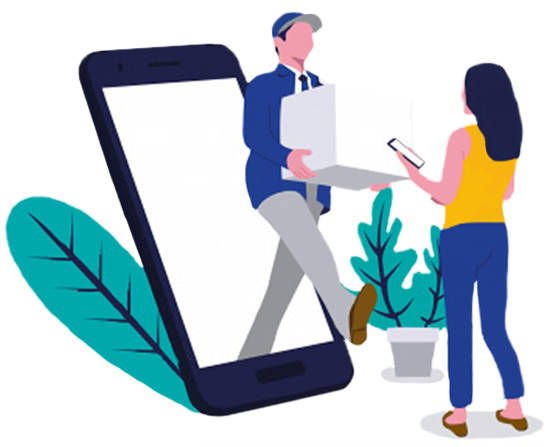
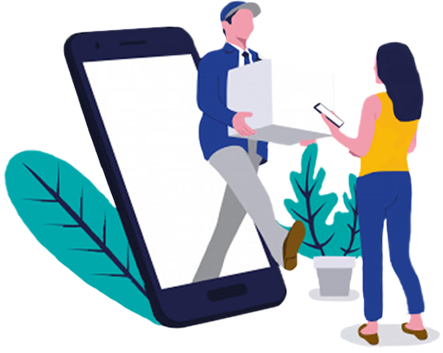
center

diff --git a/static/assets/css/sass/clients.css b/static/assets/css/sass/clients.css
@@ -5,6 +5,10 @@ body {
 header {
   color: #4a4a4a; }
 
+.center-img {
+  display:block !important;
+  margin:0 auto !important;
+}
 .logo-text {
   margin-top: 17px;
   font-family: "Avenir-Medium"; }
@@ -76,11 +80,13 @@ header {
 .delivery-bg {
   position: relative;
   width: 100%;
-  height: 420px; }
+  height: 420px;
+    }
   .delivery-bg img {
-    position: absolute;
-    top: 10px;
-    left: 180px; }
+    /* position: absolute; */
+    /* top: 10px; */
+    margin:20px auto;
+     }
   .delivery-bg:after {
     content: url(../../img/clients/cloud.png);
     position: absolute;
@@ -92,7 +98,7 @@ header {
   color: #4a4a4a;
   margin-bottom: 170px; }
   .main-title h1 {
-    padding-top: 30px;
+    margin-top: -30px;
     font-size: 32px;
     font-family: "Avenir-Medium"; }
   .main-title p {

diff --git a/static/assets/css/sass/clients-rtl.css b/static/assets/css/sass/clients-rtl.css
@@ -78,9 +78,9 @@ header {
   width: 100%;
   height: 420px; }
   .delivery-bg img {
-    position: absolute;
-    top: 10px;
-    left: 180px; }
+    /* position: absolute; */
+    /* top: 10px; */
+    margin:20px auto; }
   .delivery-bg:after {
     content: url(../../img/clients/cloud-rtl.png);
     position: absolute;

diff --git a/templates/clients-rtl.html b/templates/clients-rtl.html
@@ -26,7 +26,7 @@
 		<div class="container">
 			<header>
 				<div class="row desktop-mob_header">
-					<div class="col-md-1 col-lg-1">
+					<div class="col-md-1 col-lg-1 ">
 						<img src="{% static "assets/img/logo-test.png" %}" alt="" width="88" height="88">
 					</div>
 					<div class="col-md-3 col-lg-2">

diff --git a/templates/clients-ru.html b/templates/clients-ru.html
@@ -26,7 +26,7 @@
 		<div class="container">
 			<header>
 				<div class="row desktop-mob_header">
-					<div class="col-md-1 col-lg-1">
+					<div class="col-md-1 col-lg-1 ">
 						<img src="{% static "assets/img/logo-test.png" %}" alt="" width="88" height="88">
 					</div>
 					<div class="col-md-4 col-lg-2">
